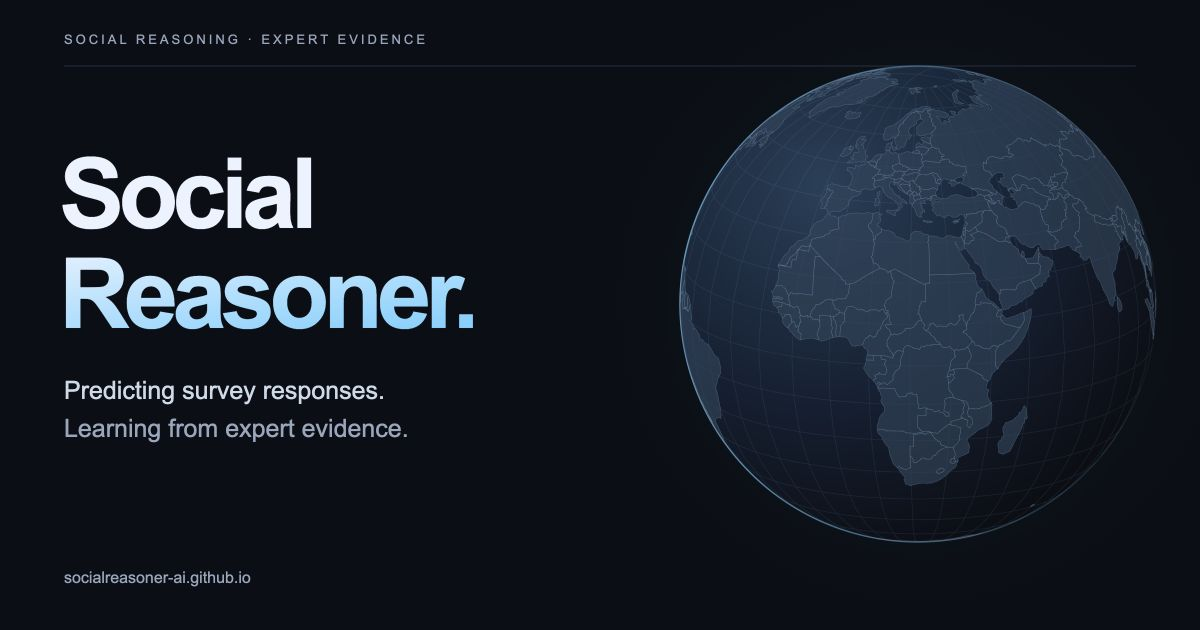
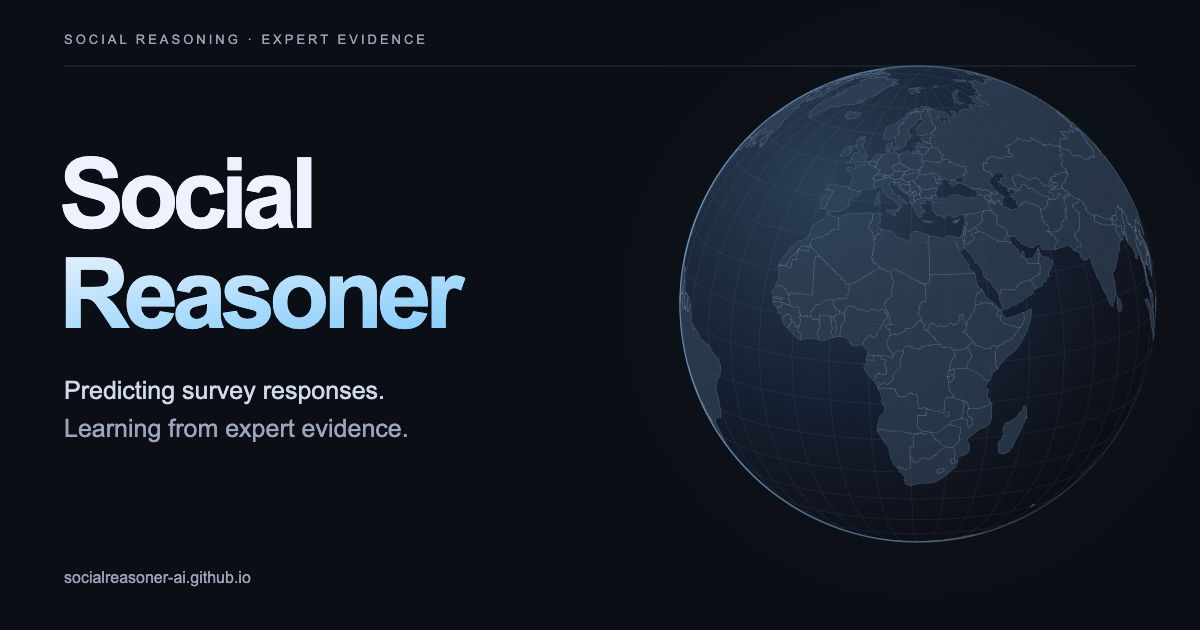
Remove brand periods and offset Opus radar label

diff --git a/index.html b/index.html
@@ -9,7 +9,7 @@
   <meta property="og:description" content="Learning social reasoning from diverse expert models to improve survey response prediction." data-i18n-content="meta.ogDescription">
   <meta property="og:locale" content="en_US">
   <meta property="og:url" content="https://socialreasoner-ai.github.io/">
-  <meta property="og:image" content="https://socialreasoner-ai.github.io/assets/socialreasoner-share.png">
+  <meta property="og:image" content="https://socialreasoner-ai.github.io/assets/socialreasoner-share.png?v=20261104-brand-r1">
   <meta property="og:image:width" content="1200">
   <meta property="og:image:height" content="630">
   <meta property="og:image:type" content="image/png">
@@ -17,7 +17,7 @@
   <meta name="twitter:card" content="summary_large_image">
   <meta name="twitter:title" content="SocialReasoner — Human reasoning, in context" data-i18n-content="meta.title">
   <meta name="twitter:description" content="Learning social reasoning from diverse expert models to improve survey response prediction." data-i18n-content="meta.ogDescription">
-  <meta name="twitter:image" content="https://socialreasoner-ai.github.io/assets/socialreasoner-share.png">
+  <meta name="twitter:image" content="https://socialreasoner-ai.github.io/assets/socialreasoner-share.png?v=20261104-brand-r1">
   <meta name="twitter:image:alt" content="SocialReasoner wordmark and a navy globe." data-i18n-content="meta.imageAlt">
   <meta property="og:type" content="website">
   <title data-i18n="meta.title">SocialReasoner — Human reasoning, in context</title>
@@ -26,14 +26,14 @@
   <link rel="stylesheet" href="globe.css?v=20261104-experts-r3final">
   <link rel="stylesheet" href="i18n.css?v=20261104-refresh-r8">
   <script defer src="globe-locales.js?v=20261104-paper-cohort-r1"></script>
-  <script defer src="i18n.js?v=20261104-method-radar"></script>
+  <script defer src="i18n.js?v=20261104-brand-r1"></script>
   <link rel="stylesheet" href="refresh.css?v=20261104-natural-copy-r1">
   <link rel="stylesheet" href="results.css?v=20261104-experts-r3final">
   <link rel="stylesheet" href="launch.css?v=20261104-natural-copy-r1">
   <link rel="stylesheet" href="method-motion.css?v=20261104-method-lab">
   <link rel="stylesheet" href="radar.css?v=20261104-interactive-r1">
   <script defer src="radar-data.js?v=20261104-interactive-r1"></script>
-  <script defer src="radar.js?v=20261104-interactive-r1"></script>
+  <script defer src="radar.js?v=20261104-brand-r1"></script>
   <script defer src="research-data.js?v=20261104-refresh-r8"></script>
   <script defer src="app.js?v=20261104-experts-r3final"></script>
   <script defer src="assets/vendor/d3.min.js"></script>
@@ -53,7 +53,7 @@
   <header class="site-header">
     <a class="brand" href="#top" aria-label="SocialReasoner, back to top" data-i18n-aria-label="nav.brandAria">
       <span class="brand-mark" aria-hidden="true"><i></i><i></i><i></i><i></i></span>
-      <span>socialreasoner<span class="brand-dot">.</span></span>
+      <span>socialreasoner</span>
     </a>
     <nav class="desktop-nav" aria-label="Primary" data-i18n-aria-label="nav.primaryAria">
       <a href="#idea"><span data-i18n="nav.idea">Overview</span></a>
@@ -79,7 +79,7 @@
     <section class="hero section-shell" aria-labelledby="hero-title">
       <div class="hero-copy">
         <div class="eyebrow hero-eyebrow"><span class="status-pulse" aria-hidden="true"></span> <span data-i18n="hero.preview">SOCIAL REASONING</span></div>
-        <h1 id="hero-title"><span class="hero-line">Social</span><span class="hero-line hero-line-em">Reasoner<span class="title-period">.</span></span></h1>
+        <h1 id="hero-title"><span class="hero-line">Social</span><span class="hero-line hero-line-em">Reasoner</span></h1>
         <p class="hero-description"><span data-i18n="hero.description">SocialReasoner predicts survey responses from demographics and perceptions, with reasoning supervision built from expert evidence.</span></p>
         <div class="hero-actions">
           <a class="button button-primary" href="#approach"><span data-i18n="hero.exploreMethod">Explore the method</span> <span aria-hidden="true">↘</span></a>
@@ -420,7 +420,7 @@
   <div class="section-shell">
     <div class="results-heading">
       <div><p class="kicker" data-i18n="evidence.kicker">EXPERIMENTAL RESULTS</p><h2 id="evidence-title" data-i18n="evidence.heading">Higher accuracy across eight datasets</h2></div>
-      <p data-i18n="evidence.intro">Choose a backbone to compare the base model with SocialReasoner.</p>
+      <p data-i18n="evidence.intro">Choose a backbone to compare the base model with SocialReasoner</p>
     </div>
     <div class="results-layout">
       <div class="benchmark-frame" id="accuracy-results">
@@ -500,6 +500,6 @@
     </section>
     <section class="release section-pad" id="release" aria-labelledby="release-title"><div class="section-shell release-main"><div><p class="kicker"><span data-i18n="release.sectionLabel">RESOURCES</span></p><h2 id="release-title"><span data-i18n="release.newHeading">Code, data, and models</span></h2></div><div class="release-list" aria-label="Release status" data-i18n-aria-label="resource.releaseAria"><div class="release-item" data-release="data"><span>01</span><strong><span data-i18n="resource.data">Data</span></strong><span class="release-destination">Hugging Face</span><span class="coming"><span data-i18n="resource.comingSoon">Coming soon</span></span></div><div class="release-item" data-release="code"><span>02</span><strong><span data-i18n="resource.code">Code</span></strong><span class="release-destination">GitHub</span><span class="coming"><span data-i18n="resource.comingSoon">Coming soon</span></span></div><div class="release-item" data-release="model"><span>03</span><strong><span data-i18n="resource.model">Models</span></strong><span class="release-destination">Hugging Face</span><span class="coming"><span data-i18n="resource.comingSoon">Coming soon</span></span></div></div></div></section>
   </main>
-  <footer class="site-footer"><div class="section-shell footer-simple"><a class="brand" href="#top">socialreasoner<span class="brand-dot">.</span></a><span>© 2026 SocialReasoner</span><a href="#top" class="back-top"><span data-i18n="footer.backTop">BACK TO TOP ↑</span></a></div></footer>
+  <footer class="site-footer"><div class="section-shell footer-simple"><a class="brand" href="#top">socialreasoner</a><span>© 2026 SocialReasoner</span><a href="#top" class="back-top"><span data-i18n="footer.backTop">BACK TO TOP ↑</span></a></div></footer>
 </body>
 </html>

diff --git a/i18n.js b/i18n.js
@@ -137,7 +137,7 @@ const SOCIAL_I18N_ROWS = [
   ["stage.2.heading", "Semantic denoising makes evidence usable", "语义去噪让证据更可用", "Le débruitage sémantique rend les indices exploitables", "Semantische Rauschfilterung macht Evidenz nutzbar", "의미적 노이즈 제거로 근거 정제"],
   ["stage.2.body", "Filter irrelevant or implausible evidence and express the remaining signals as natural-language reasoning records.", "过滤无关或不合理的证据，再将剩余信号表达为自然语言推理记录。", "Filtrer les indices non pertinents ou peu plausibles, puis exprimer les signaux restants sous forme de traces de raisonnement en langue naturelle.", "Irrelevante oder unplausible Evidenz wird gefiltert; die übrigen Signale werden als natürlichsprachliche Schlussfolgerungsaufzeichnungen formuliert.", "관련 없거나 타당하지 않은 근거를 걸러 남은 신호를 자연어 추론 기록으로 만듭니다."],
   ["stage.3.heading", "Learn from the combined reasoning records", "学习合并后的推理记录", "Apprendre des traces de raisonnement réunies", "Aus kombinierten Schlussfolgerungsaufzeichnungen lernen", "결합된 추론 기록에서 학습"],
-  ["stage.3.body", "Supervised fine-tuning transfers complementary evidence from all three experts into SocialReasoner.", "通过监督微调，将三类专家模型的互补证据迁移到 SocialReasoner。", "Le fine-tuning supervisé transmet à SocialReasoner les indices complémentaires des trois experts.", "Überwachtes Fine-Tuning überträgt die ergänzende Evidenz aller drei Experten in SocialReasoner.", "지도 미세 조정으로 세 전문가 모델의 상호 보완적 근거를 SocialReasoner에 전달합니다."],
+  ["stage.3.body", "Supervised fine-tuning transfers complementary evidence from all three experts into SocialReasoner", "通过监督微调，将三类专家模型的互补证据迁移到 SocialReasoner", "Le fine-tuning supervisé transmet à SocialReasoner les indices complémentaires des trois experts.", "Überwachtes Fine-Tuning überträgt die ergänzende Evidenz aller drei Experten in SocialReasoner", "지도 미세 조정으로 세 전문가 모델의 상호 보완적 근거를 SocialReasoner에 전달합니다."],
   ["approach.figureSummary", "View the method figure from the manuscript", "查看论文中的方法图", "Voir la figure de la méthode dans le manuscrit", "Methodenabbildung aus dem Manuskript ansehen", "논문의 방법 그림 보기"],
   ["approach.figureAlt", "Method diagram: three experts yield feature contributions, which are semantically denoised into reasoning records and combined for supervised fine-tuning.", "方法图：三类专家模型给出特征贡献，经语义去噪形成推理记录，并用于监督微调。", "Schéma de la méthode : trois experts produisent des contributions de caractéristiques, filtrées sémantiquement en traces de raisonnement puis réunies pour un fine-tuning supervisé.", "Methodendiagramm: Drei Experten liefern Merkmalsbeiträge, die semantisch bereinigt, zu Schlussfolgerungsaufzeichnungen geformt und für überwachtes Fine-Tuning kombiniert werden.", "방법 그림: 세 전문가 모델의 특성 기여도를 의미적으로 정제해 추론 기록으로 만들고, 지도 미세 조정에 결합합니다."],
   ["approach.figureCaption", "Figure 3 in the manuscript. The illustration shows the full expert-to-reasoning-to-SFT pipeline.", "论文图 3。该图展示从专家模型、推理记录到监督微调的完整流程。", "Figure 3 du manuscrit. Elle présente la chaîne complète allant des experts au raisonnement puis au fine-tuning supervisé.", "Abbildung 3 des Manuskripts. Sie zeigt den vollständigen Ablauf von Expertenmodellen über Schlussfolgerungen bis zum überwachten Fine-Tuning.", "논문 그림 3. 전문가 모델에서 추론, 지도 미세 조정으로 이어지는 전체 과정을 보여 줍니다."],
@@ -145,7 +145,7 @@ const SOCIAL_I18N_ROWS = [
   ["evidence.kicker", "EXPERIMENTAL RESULTS", "实验结果", "RÉSULTATS EXPÉRIMENTAUX", "EXPERIMENTELLE ERGEBNISSE", "실험 결과"],
   ["evidence.heading1", "A clearer signal", "更清晰的信号", "Un signal plus net", "Ein klareres Signal", "더 선명한 신호"],
   ["evidence.heading2", "across surveys", "跨越多项调查", "dans plusieurs enquêtes", "über mehrere Umfragen hinweg", "여러 설문에서"],
-  ["evidence.intro", "Choose a backbone to compare the base model with SocialReasoner.", "选择骨干模型，对比基础模型与 SocialReasoner。", "Choisissez un modèle de base pour le comparer à SocialReasoner.", "Wählen Sie ein Basismodell, um es mit SocialReasoner zu vergleichen.", "기반 모델을 선택해 SocialReasoner와 비교하세요."],
+  ["evidence.intro", "Choose a backbone to compare the base model with SocialReasoner", "选择骨干模型，对比基础模型与 SocialReasoner", "Choisissez un modèle de base pour le comparer à SocialReasoner", "Wählen Sie ein Basismodell, um es mit SocialReasoner zu vergleichen.", "기반 모델을 선택해 SocialReasoner와 비교하세요."],
   ["evidence.table", "TABLE 1", "表 1", "TABLEAU 1", "TABELLE 1", "표 1"],
   ["evidence.prediction", "Respondent-level prediction", "受访者层面的预测", "Prédiction au niveau des répondants", "Vorhersage auf Befragtenebene", "응답자 단위 예측"],
   ["evidence.modelAria", "Select base language model", "选择基础语言模型", "Choisir le modèle de langage de base", "Basis-Sprachmodell auswählen", "기본 언어 모델 선택"],

diff --git a/radar.js b/radar.js
@@ -217,7 +217,7 @@
         }
         const centerAngle = (90 - modelIndex * 120) * Math.PI / 180;
         const [labelX, labelY] = point(cx, cy, radius * (compact ? 1.24 : 1.31), centerAngle);
-        add(arc, 'text', { class: 'radar-model-name', x: labelX, y: labelY, 'text-anchor': 'middle', 'dominant-baseline': 'middle' }, model.name);
+        add(arc, 'text', { class: 'radar-model-name', x: labelX - (model.id === 'opus' ? (compact ? 14 : 24) : 0), y: labelY, 'text-anchor': 'middle', 'dominant-baseline': 'middle' }, model.name);
       });
       for (let i = 0; i < 3; i++) {
         const angle = (30 - i * 120) * Math.PI / 180;
